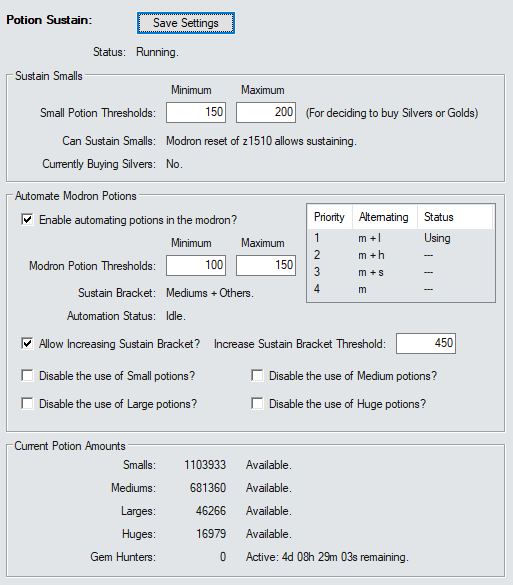
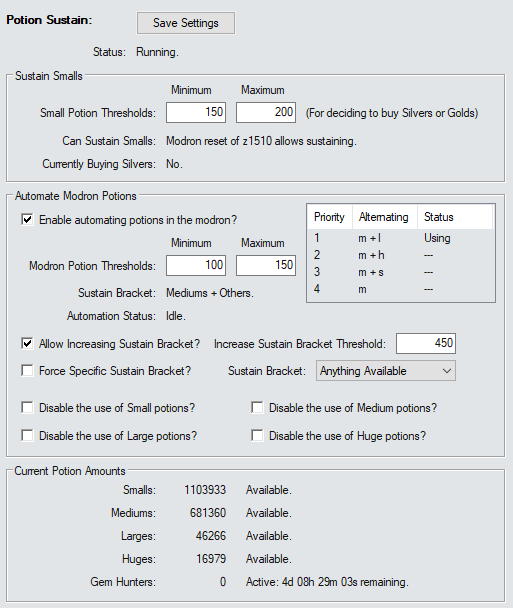
Potion Sustain Update - 0.2.1
- Added a new setting that allows forcing a specific sustain bracket. (I will not be held liable for idiots who set a sustain bracket higher than they can support.)

Changed region(s): [[0.0, 0.0, 0.9981, 1.0], [0.0312, 0.0308, 0.1559, 0.0615]]

diff --git a/IC_Addons/IC_PotionSustain_Extra/README.md b/IC_Addons/IC_PotionSustain_Extra/README.md
@@ -16,6 +16,16 @@ It defaults to always buying Gold chests until your small potion count falls bel
 
 To do this - the AddOn completely ignores the four Buy and Open settings in the `Briv Gem Farm` addon. It acts like they are all on. It will - however - continue to follow the `Maintain this many gems when buying chests.` setting.
 
+### Settings
+
+#### Small Potion Thresholds (Minimum)
+
+When the small potion amount drops to or below this threshold - the addon will start buying Silver Chests.
+ 
+#### Small Potion Thresholds (Maximum)
+
+If the addon is currently buying Silver chests and the small potion amount increases to or above this threshold - it will start buying Gold Chests again.
+
 ___
 
 ## Automate Modron Potions
@@ -28,19 +38,58 @@ The interface will tell you which Alternating combination it's currently using.
 
 *Please be aware that it can only change the potions in the modron during offline stacking - so this will not work at all for purely online runs.*
 
-### Sustain Brackets
+### Settings
+
+#### Enable automating potions in the modron?
+
+This will tell the addon to start automatically changing the potions set in the modron. It can only do this while the game is off during offline stacking.
+
+#### Modron Potion Thresholds (Minimum)
+
+When a potion type amount drops to or below this threshold - the addon will make this potion type unavailable so it can restock.
+ 
+#### Modron Potion Thresholds (Maximum)
+
+If a potion type is not being used so it can restock and the amount of that potion increases to or above this threshold - the addon will make it available for use again.
+
+#### Allow Increasing Sustain Bracket?
+
+This is a checkbox that will allow the addon to temporarily increase your sustain bracket if the amount of potions for higher brackets exceeds a higher threshold. The minimum for this threshold is three times your Automation Maximum Threshold.
+
+> [!NOTE]
+> *This setting is mutually exclusive with `Force Specific Sustain Bracket`.*
+
+#### Force Specific Sustain Bracket?
+
+This is a checkbox that will force the addon to use a specific sustain bracket. It will only ever automate potion priorities within this bracket - even if you cannot sustain that bracket.
+
+The purpose of this setting is so that people who have bought 4 Event Boons can alternate single potions with the `Anything Available` bracket and thereby not waste potions.
+
+> [!CAUTION]
+> *I will not be held liable for idiots who set a sustain bracket higher than they can support.*
+
+> [!NOTE]
+> *This setting is mutually exclusive with `Allow Increasing Sustain Bracket`.*
+
+#### Disable the use of [Type] Potions
+
+These four checkboxes quite literally prevent the addon from being able to automate the selected potion types. It's generally not recommended to use these settings unless you have a very good reason for doing so.
+
+___
+
+## Sustain Brackets
 
 The addon determines which combinations of potions to use based on your current modron `Reset Zone`.
 
 For the time being it's extremely simplistic - and might not be good for everyone - but it's the best I can do for now. I may try more complicated alternatives at a later date.
 
-*Note: Speeds below include the Modron node as well as Hew Maan's feat and the Potent Potions blessing.*
+> [!WARNING]
+> *This addon does not automatically adjust Sustain Bracket based on Event Boons.*
 
-### Allow Increasing Sustain Bracket
+> [!NOTE]
+> *Speeds below include the Modron node as well as Hew Maan's feat and the Potent Potions blessing.*
 
-This is a checkbox that will allow the script to temporarily increase your sustain bracket if the amount of potions for higher brackets exceeds a higher threshold. The minimum for this threshold is three times your Automation Maximum Threshold.
-
-#### Mediums + Others.
+### Mediums + Others
 
 z1185 (or z895 with Gem Hunter) can permanently sustain medium potions - if the script can buy Silvers occasionally to sustain smalls. (Which is why Sustain Smalls is not optional.)
 
@@ -50,7 +99,7 @@ z1185 (or z895 with Gem Hunter) can permanently sustain medium potions - if the 
 | Medium + Huge | 5.02%+ | x10 | x10 |
 | Medium + Small | 100% | x5.64 | x8.46 |
 
-#### Smalls + Others.
+### Smalls + Others
 
 z665 (or z480 with Gem Hunter) can permanently sustain small potions.
 
@@ -61,7 +110,7 @@ z665 (or z480 with Gem Hunter) can permanently sustain small potions.
 | Small + Medium | 58.17%+ | x5.64 | x8.46 |
 | Small only | 100% | x2.58 | x3.87 |
 
-#### Anything available.
+### Anything Available
 
 Below z665 (or z480 with Gem Hunter) you can't permanently sustain any potion. Because of this it will use 1 potion at a time and alternate all 4 types.
 
@@ -72,6 +121,12 @@ Below z665 (or z480 with Gem Hunter) you can't permanently sustain any potion. B
 | Medium | 0%+ | x3.61 | x5.41 |
 | Small | 0%+ | x2.58 | x3.87 |
 
-*All of this is of course assuming there aren't any bugs. Spoiler alert - there will be bugs.*
+___
+
+## Current Potion Amounts
+
+This is simply an informative display that lets you know the status of each potion type. How many you have and whether they're available or not or blocked. It will even display your Gem Hunter Potion status.
+
+___
 
 ![Potion Sustain Addon Preview Image](images/SustainAddonPreview.png)
